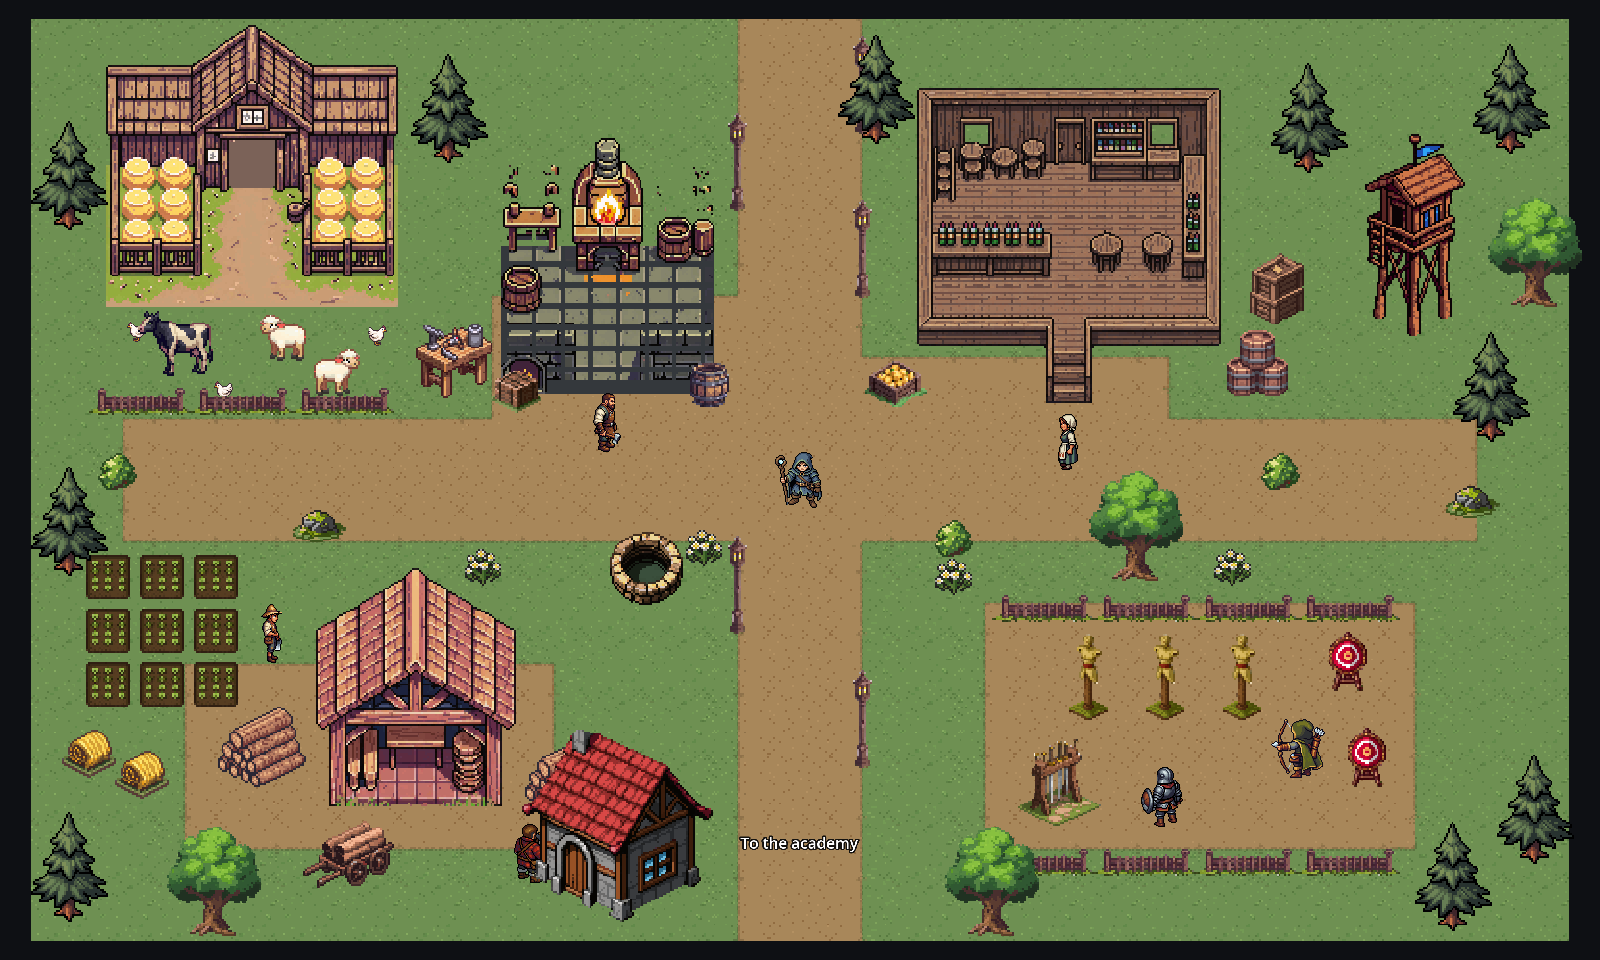
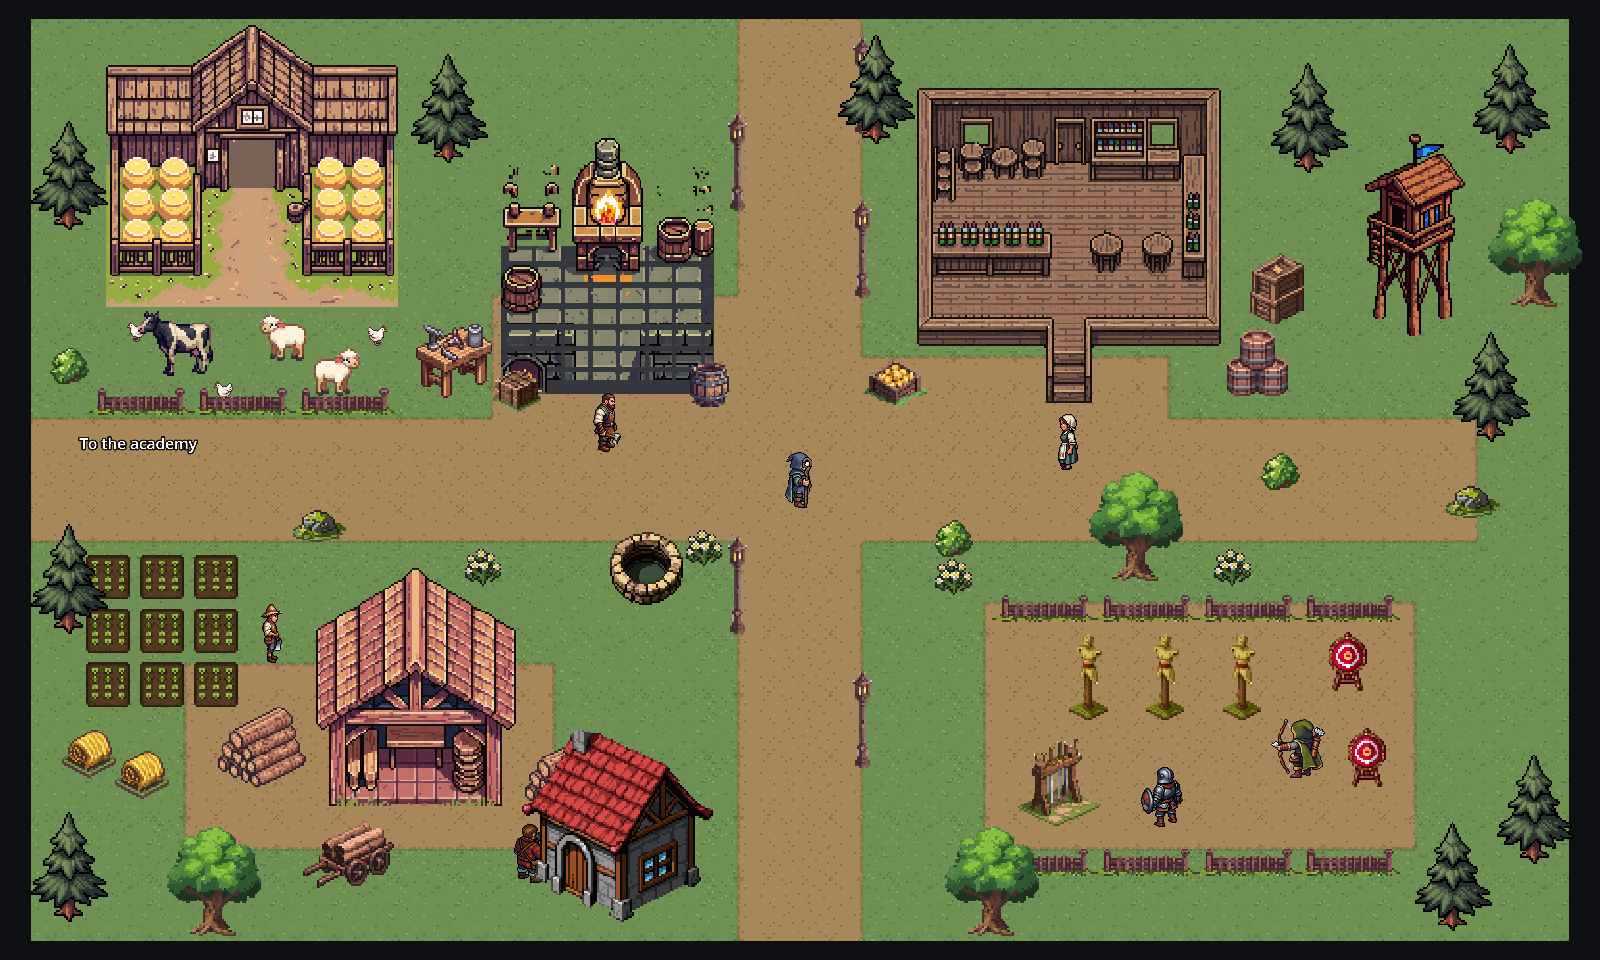
Enter the village from the west
The academy lies west of the village (its road leaves the courtyard to the
east), so the village's cross road now runs to the west edge, where the
wizard arrives and where the way back to the academy starts. A bush and a
pine move off the extended road. README screenshots are re-rendered.

Claude-Session: https://claude.ai/code/session_01R2yno3HT1G9MPyjifoVGd2

diff --git a/game/README.md b/game/README.md
@@ -96,7 +96,7 @@ The map is 1600 × 960 pixels with grass, earth paths, and a stone courtyard; th
 
 ## The village
 
-Walk east along the road out of the courtyard (a sign reads "To the village") to reach a village map of the same size: a barn with animals, a forge, a tavern with its roof off, a sawmill, a cottage, a watchtower, a garden and a training yard, joined by dirt roads. Six villagers (blacksmith, farmer, villager, militia, archer, lumberjack) stand about and turn to watch the wizard; there are no enemies. Buildings, trees and larger props block the wizard, who slides along them. The road south, signed "To the academy", leads back. Both roads carry the wizard's current life, mana and flask charges with him; level, passives and gear persist as always. Enemies in the courtyard reset on each return.
+Walk east along the road out of the courtyard (a sign reads "To the village") to reach a village map of the same size, arriving at its west edge: a barn with animals, a forge, a tavern with its roof off, a sawmill, a cottage, a watchtower, a garden and a training yard, joined by dirt roads. Six villagers (blacksmith, farmer, villager, militia, archer, lumberjack) stand about and turn to watch the wizard; there are no enemies. Buildings, trees and larger props block the wizard, who slides along them. The way back is the west end of the cross road, signed "To the academy". Both roads carry the wizard's current life, mana and flask charges with him; level, passives and gear persist as always. Enemies in the courtyard reset on each return.
 
 The village layout is `village.tscn`: each piece is a `scenery.gd` node with the art's name, a pixel scale (2 for village art, so its pixels match the ground's) and an optional blocking footprint, and can be moved in the Godot editor. The ground is `village_ground.gd`, which picks each road tile from a corner-matched tileset.
 

diff --git a/README.md b/README.md
@@ -21,7 +21,7 @@ See [`game/README.md`](game/README.md) for how the prototype plays.
 
 ### The village
 
-Follow the road east out of the courtyard to reach the village. Buildings, trees, and props block the way, villagers turn to watch you pass, and the road south leads back to the academy.
+Follow the road east out of the courtyard to reach the village. Buildings, trees, and props block the way, villagers turn to watch you pass, and the road west leads back to the academy.
 
 ![Exploring the village](docs/screenshots/village_play.png)
 
